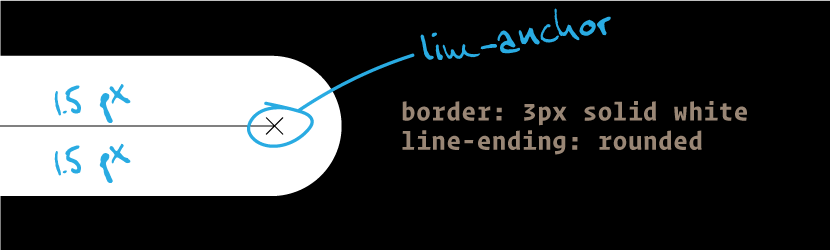
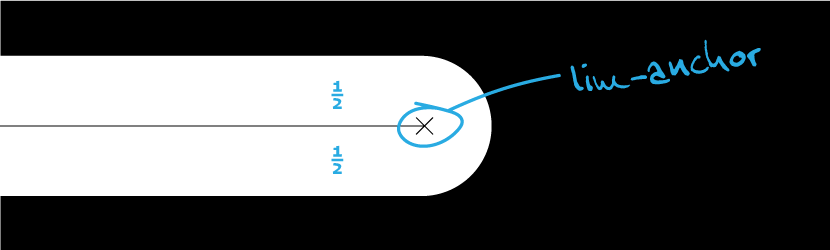
dito.

diff --git a/README.md b/README.md
@@ -81,7 +81,7 @@ If we add another element with an allready used class, it can beccome challengin
 
 
 
-# Second idea: set and fetch lines
+# Second and probably better idea: Set and fetch lines
 
 ![Like described.](img/v2-3-elements.png)
 
@@ -119,7 +119,7 @@ If we add another element with an allready used class, it can beccome challengin
     center, 
     50% calc(100% - 1rem);
   set-line-style: 
-    3px solid black squared cubic-bezier(1,0,0,1), 
+    3px solid black rounded cubic-bezier(1,0,0,1), 
     1px solid white rounded cubic-bezier(.5,0,1,.5);
 }
 .b {
